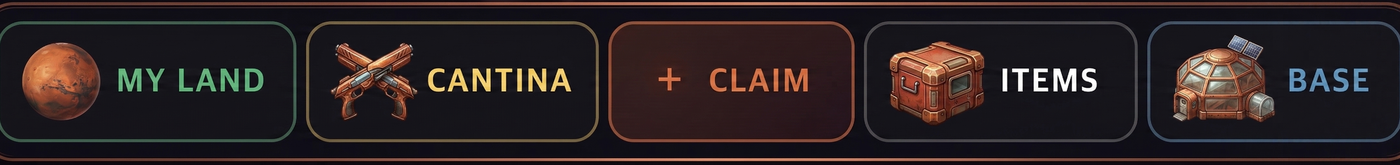
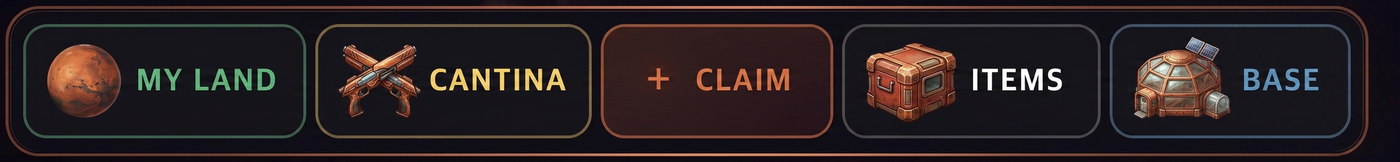
Main nav: re-crop to include orange outer frame (4575×530)
Previous crop accidentally trimmed off the orange outer frame — this
restores it, keeping tight padding around the full painted composition.

diff --git a/index.html b/index.html
@@ -624,27 +624,27 @@ input[type=range]::-moz-range-thumb{width:14px;height:14px;
   color:#fff;cursor:pointer;font-weight:bold;letter-spacing:1px;
   box-shadow:0 2px 10px rgba(255,120,60,.3)}
 
-/* Collapsed-mode action dock — desktop-only. Painted image (outer frame
-   already trimmed off) with transparent click zones overlaid on each button. */
+/* Collapsed-mode action dock — desktop-only. Painted image (tight crop
+   around the orange outer frame) with click zones on each inner button. */
 .col-fab-wrap{display:none;position:fixed;bottom:14px;left:50%;transform:translateX(-50%);
-  z-index:95;width:960px;aspect-ratio:4320/510;padding:0;background:transparent;
+  z-index:95;width:980px;aspect-ratio:4575/530;padding:0;background:transparent;
   border:none;box-shadow:none;pointer-events:none}
 .col-fab-wrap.show{display:block}
 .col-fab-wrap .cf-bg{position:absolute;inset:0;width:100%;height:100%;
   display:block;pointer-events:none;filter:drop-shadow(0 6px 18px rgba(0,0,0,.55))}
-.col-fab{position:absolute;top:6%;height:88%;padding:0;background:transparent;
+.col-fab{position:absolute;top:8.5%;height:83%;padding:0;background:transparent;
   border:none;border-radius:14px;cursor:pointer;pointer-events:auto;
   transition:transform .15s ease-out,box-shadow .15s ease-out;
   font-size:0;color:transparent}
 .col-fab:hover{transform:translateY(-2px)}
 .col-fab:active{transform:translateY(0) scale(.98)}
-/* Click zone positions match the 5 button regions inside main_buttons.png
-   (tight-cropped, 4320×510 source). */
-.col-fab.myland {left:0%;     width:21.4%}
-.col-fab.arena  {left:21.9%;  width:20.9%}
-.col-fab.place  {left:43.4%;  width:17.6%}
-.col-fab.items  {left:61.7%;  width:19.5%}
-.col-fab.base   {left:81.9%;  width:18.1%}
+/* Click zone positions match the 5 inner button regions inside main_buttons.png
+   (4575×530 source, orange outer frame included). */
+.col-fab.myland {left:1.7%;   width:20.2%}
+.col-fab.arena  {left:22.5%;  width:19.7%}
+.col-fab.place  {left:42.9%;  width:16.6%}
+.col-fab.items  {left:60.2%;  width:18.4%}
+.col-fab.base   {left:79.3%;  width:17.2%}
 .col-fab.myland:hover{box-shadow:0 0 24px rgba(76,216,154,.6)}
 .col-fab.arena:hover {box-shadow:0 0 24px rgba(255,209,102,.6)}
 .col-fab.place:hover {box-shadow:0 0 28px rgba(255,120,60,.75)}
